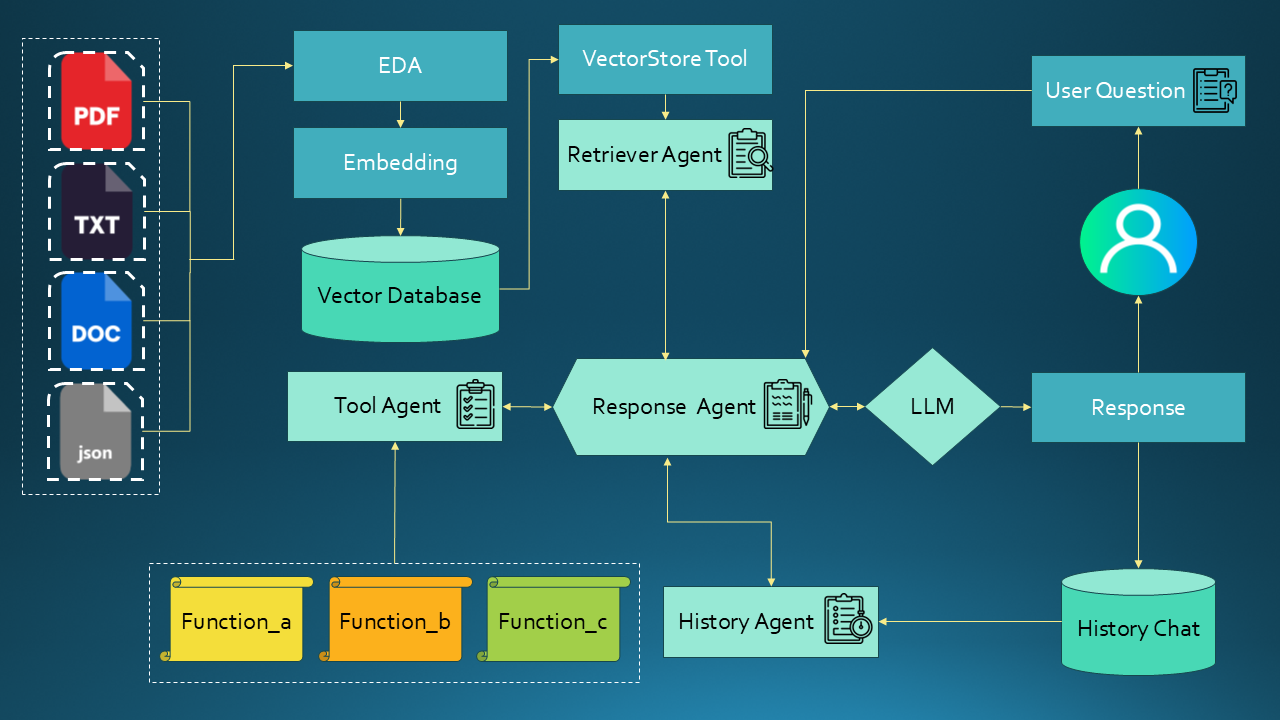
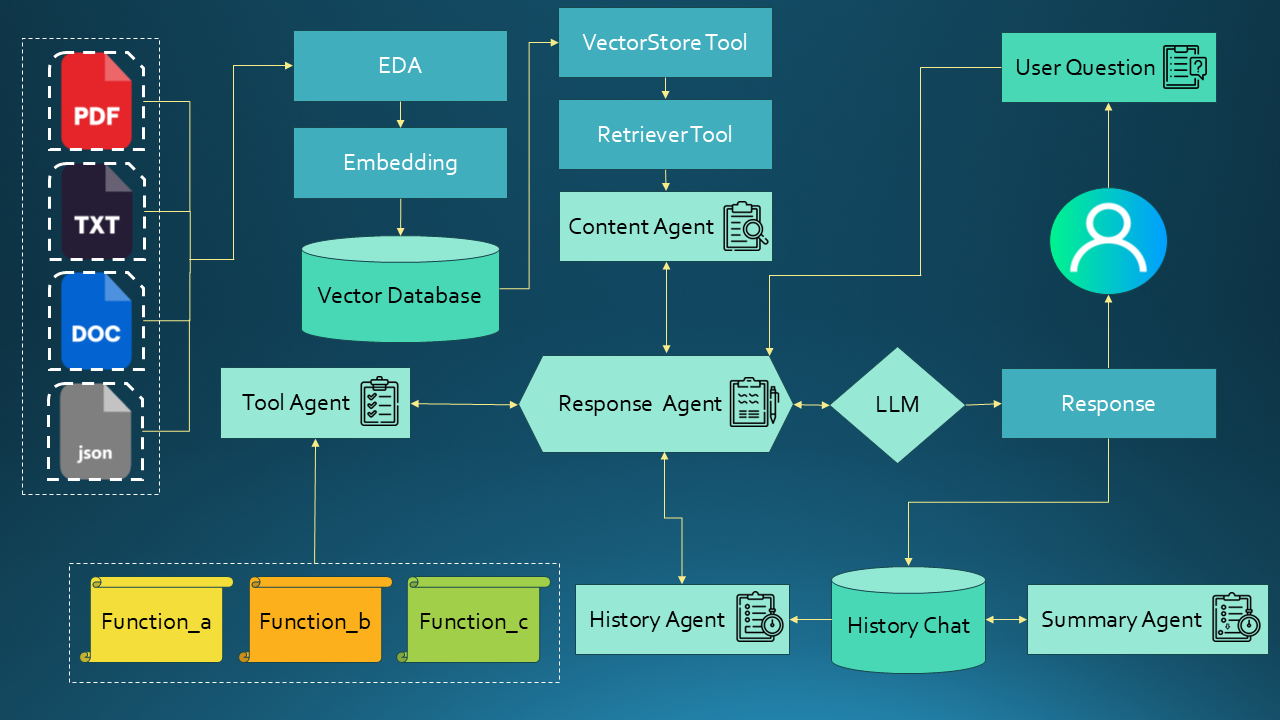
History_Agent_Commit

diff --git a/src/Agentic_Rag/Agent.py b/src/Agentic_Rag/Agent.py
@@ -1,4 +1,4 @@
-from typing import Callable, Any, Dict, List
+from typing import Any, Dict, List
 import os
 import json
 import re
@@ -8,11 +8,11 @@ from langchain.chains import LLMChain
 from langchain.vectorstores import FAISS
 from langchain.embeddings import HuggingFaceEmbeddings
 from langchain_google_genai import ChatGoogleGenerativeAI
-from langchain.docstore.document import Document
 from langchain_community.vectorstores import FAISS
 from langchain.embeddings import HuggingFaceEmbeddings
 from Agentic_Rag.Agent_tools import tools
 from dotenv import load_dotenv
+from config import llm_history_chat_limit
 
 load_dotenv()
 
@@ -26,14 +26,14 @@ llm = ChatGoogleGenerativeAI(model="gemini-1.5-flash", temperature=0.6, max_outp
 chat_history: List[Dict[str, str]] = []
 
 content_summary_prompt_template = """
-    Dựa trên các tài liệu sau đây, hãy tổng hợp thông tin quan trọng liên quan đến câu hỏi: {question}
-    Chỉ cần lấy các nội dung liên quan đến câu hỏi từ các tài liệu, không thêm thông tin bên ngoài.
-    Nếu không có thông tin liên quan đến câu hỏi trong các tài liệu thì trả về không có thông tin.
+    Dựa trên các tài liệu sau đây, hãy tổng hợp thông tin quan trọng liên quan đến câu hỏi của user: {question}
+    Chỉ cần lấy các nội dung liên quan đến câu hỏi của user từ các tài liệu, không thêm thông tin bên ngoài.
+    Nếu không có thông tin liên quan đến câu hỏi của user trong các tài liệu thì trả về không có thông tin.
 
     Các tài liệu:
     {documents}
 
-    các thông tin liên quan đến câu hỏi:
+    Các thông tin liên quan đến câu hỏi của user:
 """
 
 history_summary_prompt_template = """
@@ -46,8 +46,18 @@ history_summary_prompt_template = """
     Tóm tắt:
 """
 
+history_retriever_prompt_template = """
+    Dựa trên lịch sử cuộc trò chuyện sau, hãy lấy ra các thông tin liên quan đến câu hỏi của user: {question}.
+    Chỉ cần lấy các nội dung liên quan, nếu không có thông tin liên quan trong lịch sử trò truyện hãy trả lời lịch sử không có thông tin liên quan đến câu hỏi.
+
+    Lịch sử cuộc trò chuyện:
+    {history}
+
+    Các thông tin liên quan đến câu hỏi của user:
+"""
+
 tool_usage_prompt_template = """
-    Bạn là một Agent thông minh. Nếu câu hỏi yêu cầu thông tin có thể lấy từ các tool dưới đây, hãy sử dụng tool tương ứng.
+    Bạn là một Agent thông minh. Nếu câu hỏi của user yêu cầu thông tin có thể lấy từ các tool dưới đây, hãy sử dụng tool tương ứng.
 
     Danh sách tools:
     {tools}
@@ -60,7 +70,7 @@ tool_usage_prompt_template = """
     - "Tính diện tích với cao 20 và dài 30" -> {{"tool_name": "calculate_area", "arguments": {{"width": 30, "height": 20}}}}
     - "Bạn khỏe không?" -> {{}}
 
-    Câu hỏi: {question}
+    Câu hỏi của user: {question}
     Trả lời:
 """
 
@@ -81,8 +91,8 @@ qa_system_prompt_template = """
     Câu trả lời:
 """
 
-def summarize_history_thread(chat_history, result_holder):
-    result_holder["history_summary"] = agent_summarize_chat_history(chat_history)
+def retriever_history_thread(user_input, result_holder):
+    result_holder["history"] = agent_retriever_chat_history(user_input)
 
 def retrieve_context_thread(user_input, result_holder):
     result_holder["context"] = agent_retriever(user_input)
@@ -102,6 +112,18 @@ def agent_summarize_chat_history(history: List[Dict[str, str]]) -> str:
     summary = chain.run(history=formatted_history)
     return summary.strip()
 
+def agent_retriever_chat_history(question: str) -> str:
+    formatted_history = "\n".join(
+        [f"Người dùng: {entry['user']}\nToka: {entry['assistant']}" for entry in chat_history]
+    )
+    prompt = PromptTemplate(
+        input_variables=["history", "question"],
+        template=history_retriever_prompt_template
+    )
+    chain = LLMChain(llm=llm, prompt=prompt)
+    summary = chain.run(history=formatted_history, question=question)
+    return summary.strip()
+
 def agent_retriever(question: str) -> str:
     if not faiss_db:
         return ""
@@ -111,12 +133,12 @@ def agent_retriever(question: str) -> str:
 
     aggregated_content = "\n".join([f"- {doc.page_content}" for doc in context_documents])
 
-    summary_prompt = PromptTemplate(
+    prompt = PromptTemplate(
         input_variables=["documents"],
         template=content_summary_prompt_template
     )
 
-    chain = LLMChain(llm=llm, prompt=summary_prompt)
+    chain = LLMChain(llm=llm, prompt=prompt)
     summary = chain.run(documents=aggregated_content, question=question)
 
     return summary.strip()
@@ -163,14 +185,23 @@ def generate_final_response(question: str, context: str, history_summary: str, t
     response = chain.run(context=context, chat_history=history_summary, tool_response=tool_response, question=question)
     return response.strip()
 
+def update_chat_history(new_entry: Dict[str, str]):
+    global chat_history
+
+    if len(chat_history) >= llm_history_chat_limit:
+        summarized_history = agent_summarize_chat_history(chat_history)
+        chat_history = [{"user": "Lịch sử tóm tắt", "assistant": summarized_history}]
+
+    chat_history.append(new_entry)
+
 def main_workflow(user_input: str) -> str:
     result_holder = {
-        "history_summary": None,
+        "history": None,
         "context": None,
         "tool_response": None
     }
 
-    history_thread = threading.Thread(target=summarize_history_thread, args=(chat_history, result_holder))
+    history_thread = threading.Thread(target=retriever_history_thread, args=(user_input, result_holder))
     context_thread = threading.Thread(target=retrieve_context_thread, args=(user_input, result_holder))
     tool_thread = threading.Thread(target=use_tool_thread, args=(user_input, result_holder))
 
@@ -182,24 +213,35 @@ def main_workflow(user_input: str) -> str:
     context_thread.join()
     tool_thread.join()
 
-    history_summary = result_holder["history_summary"]
+    history = result_holder["history"]
     context = result_holder["context"]
     tool_response = result_holder["tool_response"]
 
-    final_response = generate_final_response(user_input, context, history_summary, tool_response)
+    final_response = generate_final_response(user_input, context, history, tool_response)
 
-    chat_history.append({"user": user_input, "assistant": final_response})
+    update_chat_history({"user": user_input, "assistant": final_response})
+
+
+    formatted_history = "\n".join(
+        [f"Người dùng: {entry['user']}\nToka: {entry['assistant']}" for entry in chat_history]
+    )
+
+    print("-"*30)
+    print(formatted_history)
+    print("-"*30)
+
+
     return final_response
 
 def get_response(user_input: str) -> str:
     return main_workflow(user_input)
 
-if __name__ == "__main__":
-    print("Chào mừng bạn đến với trợ lý thông minh Toka!")
-    while True:
-        user_query = input("Nhập câu hỏi của bạn (hoặc 'thoát' để dừng): ")
-        if user_query.lower() == "thoát":
-            print("Chào tạm biệt!")
-            break
-        response = get_response(user_query)
-        print(f"Toka: {response}")
+# if __name__ == "__main__":
+#     print("Chào mừng bạn đến với trợ lý thông minh Toka!")
+#     while True:
+#         user_query = input("Nhập câu hỏi của bạn (hoặc 'thoát' để dừng): ")
+#         if user_query.lower() == "thoát":
+#             print("Chào tạm biệt!")
+#             break
+#         response = get_response(user_query)
+#         print(f"Toka: {response}")

diff --git a/src/config.py b/src/config.py
@@ -1,3 +1,5 @@
 from os.path import dirname, abspath
 
 root_path = dirname(dirname(abspath(__file__)))
+
+llm_history_chat_limit = 5
